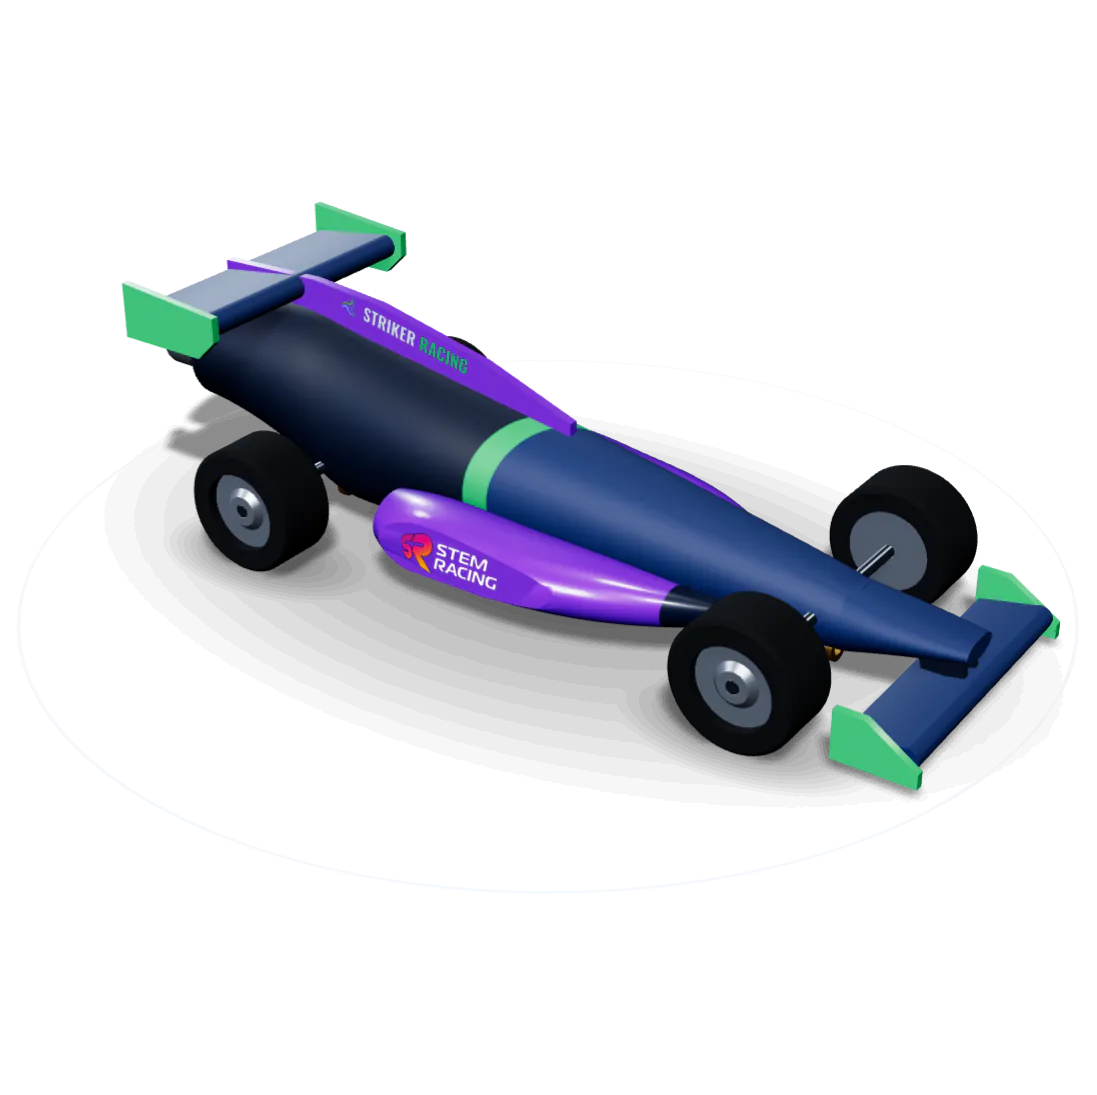
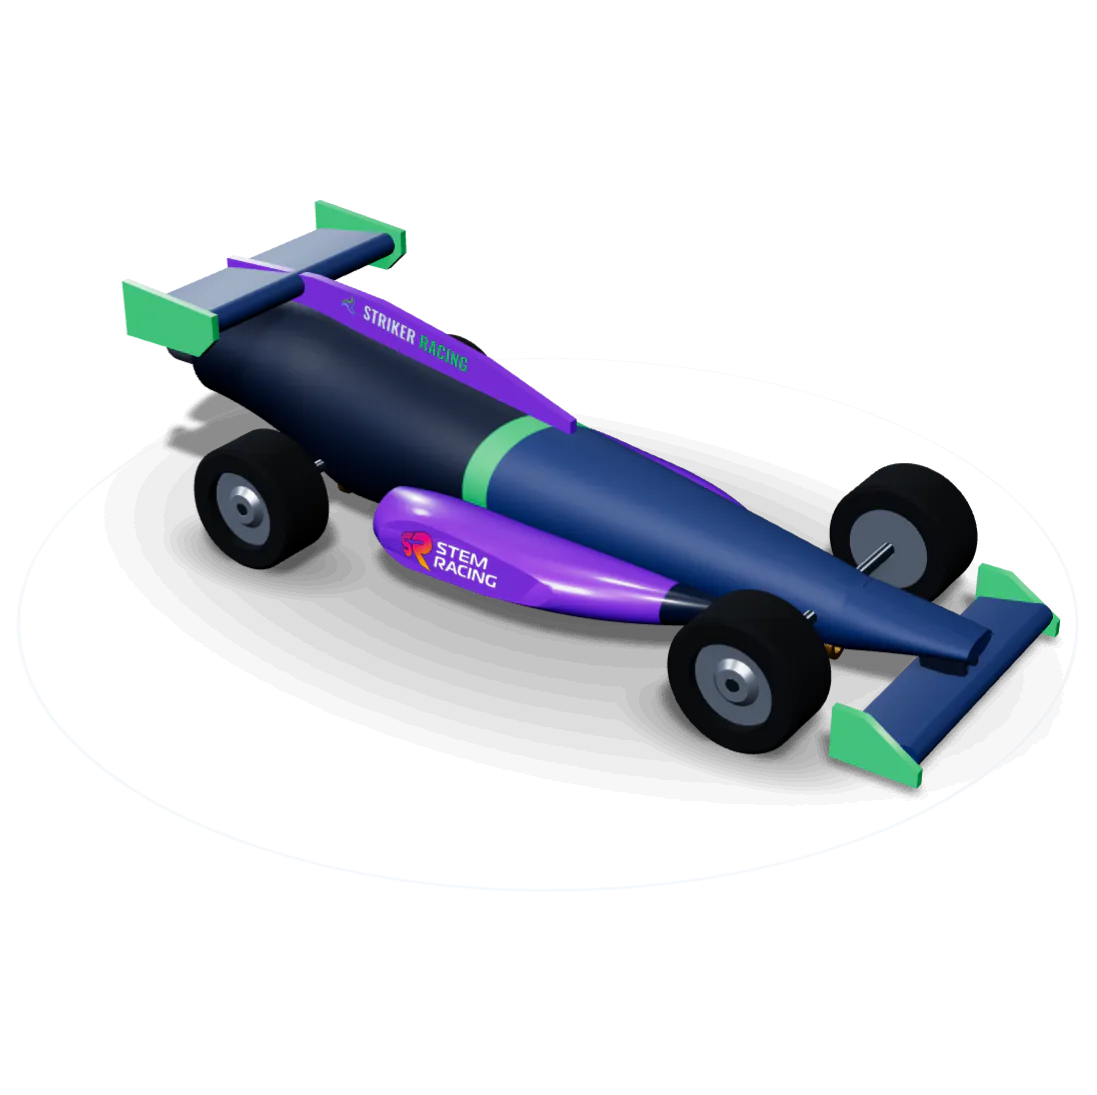
fix(cache,hero): ?v=<hash> de contenido en css/js/img/modelos en build:deploy, css/js con must-revalidate, prueba qa/cache; menu transparente sobre el hero, foto hasta el borde superior, difuminado largo y visor sin bordes; poster sin menu horneado

diff --git a/css/gallery.css b/css/gallery.css
@@ -853,16 +853,18 @@ dialog.ar-dialog::backdrop{background:rgba(7,27,51,0.85);}
 /* ---------- Inicio: hero con foto a todo el ancho y visor del SR-26 grande ----------
    La foto va a todo el ancho con su proporción (16:9), anclada abajo; el texto va en el muro vacío sobre las cabezas (el borde superior e inferior
    de la foto se difuminan hacia el navy con mask-image, solo transparencia). Cajas de caras en data/hero-safe.json: --face-top = 38 % del alto de la foto. */
-.hero-photo{--ph:56.25vw; --face-top:0.378; position:relative; display:block; min-height:0; padding:0; overflow:hidden; background:var(--navy-deep); border-bottom:0;}
+.hero-photo{--hdr:65px; --fs:clamp(1.7rem,4.4vw,3.5rem); --face-top:0.378;
+  --ph:max(56.25vw, calc((var(--hdr) + 40px + 171px + 2 * var(--fs) + 28px) / var(--face-top)));   /* alto de la foto: lo justo para que el texto quede sobre las cabezas y la foto llegue hasta el borde superior */
+  position:relative; display:block; min-height:0; padding:0; overflow:hidden; background:var(--navy-deep); border-bottom:0;}
 .hero-photo::before{display:none;}
 .hero-bg{position:absolute; left:0; right:0; bottom:0; height:var(--ph); z-index:0;}
 .hero-bg picture, .hero-bg img{display:block; width:100%; height:100%;}
-.hero-bg img{object-fit:cover; object-position:50% 50%;
-  -webkit-mask-image:linear-gradient(to bottom, transparent 0, #000 24%, #000 80%, transparent 100%); mask-image:linear-gradient(to bottom, transparent 0, #000 24%, #000 80%, transparent 100%);}
+.hero-bg img{object-fit:cover; object-position:40% 50%;   /* cover por alto en pantallas angostas: recorta a los lados sin cortar las caras (qa:hero) */
+  -webkit-mask-image:linear-gradient(to bottom, #000 0, #000 62%, transparent 100%); mask-image:linear-gradient(to bottom, #000 0, #000 62%, transparent 100%);}   /* difuminado largo (38 %) hacia el navy, solo transparencia */
 .hero-bg::after{content:""; position:absolute; inset:0; background:rgba(7,27,51,0.45); pointer-events:none;}   /* oscurece la foto con navy plano (sin filter: es lento en WebGL por software) */
-.hero-copy{position:relative; z-index:2; width:100%; padding-top:40px; padding-bottom:calc(var(--ph) * (1 - var(--face-top)) + 16px);}
+.hero-copy{position:relative; z-index:2; width:100%; padding-top:calc(var(--hdr) + 40px); padding-bottom:calc(var(--ph) * (1 - var(--face-top)) + 16px);}
 .hero-copy > *{max-width:980px;}
-.hero-copy h1{font-family:'Oswald', system-ui, sans-serif; font-weight:600; text-transform:uppercase; font-size:clamp(1.7rem,4.4vw,3.5rem); line-height:1.02; color:var(--ice); margin:0 0 14px;}
+.hero-copy h1{font-family:'Oswald', system-ui, sans-serif; font-weight:600; text-transform:uppercase; font-size:var(--fs); line-height:1.02; color:var(--ice); margin:0 0 14px;}
 .hero-copy h1 em{font-style:normal; color:var(--purple-text);}
 .hero-copy .hero-lead{color:var(--ice); max-width:64ch; margin-bottom:20px;}
 .hero-copy .room-tag{margin-bottom:14px; color:var(--ice);}
@@ -871,16 +873,30 @@ dialog.ar-dialog::backdrop{background:rgba(7,27,51,0.85);}
   font-family:var(--mono); font-size:0.72rem; letter-spacing:0.12em; text-transform:uppercase; color:var(--ice);
 }
 .hero-scroll::after{content:""; width:9px; height:9px; border-right:2px solid var(--emerald); border-bottom:2px solid var(--emerald); transform:rotate(45deg) translateY(-2px);}
-@media (max-width:640px){   /* teléfono: la foto arriba (recorte con las 6 caras a la vista) y el texto debajo, sin encimarse */
+/* Escritorio (>900 px): el menú es transparente sobre la foto (velo navy plano al 55 %) y pasa a navy sólido al hacer scroll (>40 px, clase is-solid) o con el menú abierto */
+@media (min-width:901px){
+  body:has(.hero-photo) .cockpit{position:fixed; left:0; right:0; top:0; border-bottom-color:transparent; transition:border-color .2s ease;}
+  body:has(.hero-photo) .cockpit::before{background:rgba(7,27,51,0.55); transition:background-color .2s ease;}
+  body:has(.hero-photo) .cockpit.is-solid, body:has(.hero-photo) .cockpit:has(.nav-panel.open){border-bottom-color:var(--border-fine);}
+  body:has(.hero-photo) .cockpit.is-solid::before, body:has(.hero-photo) .cockpit:has(.nav-panel.open)::before{background:var(--navy-deep);}
+  body:has(.hero-photo) .cockpit:not(.is-solid) .contact-cta.is-ghost{border-color:var(--ice-dim);}
+}
+@media (prefers-reduced-motion:reduce){ body:has(.hero-photo) .cockpit, body:has(.hero-photo) .cockpit::before{transition:none;} }
+@media (max-width:900px){   /* tableta y teléfono: la foto arriba (recorte con las 6 caras a la vista) y el texto debajo, sin encimarse; menú sólido */
+  .hero-photo{--fs:clamp(1.4rem,5.2vw,2.2rem);}
   .hero-bg{top:0; bottom:auto; height:420px;}
   .hero-bg::after{display:none;}
-  .hero-bg img{object-position:40% 50%; -webkit-mask-image:linear-gradient(to bottom, #000 0, #000 78%, transparent 100%); mask-image:linear-gradient(to bottom, #000 0, #000 78%, transparent 100%);}
+  .hero-bg img{object-position:40% 50%;}
   .hero-copy{padding-top:400px; padding-bottom:72px;}
-  .hero-copy h1{font-size:1.4rem;}
   .hero-scroll{left:16px; right:auto; bottom:12px;}
 }
+@media (max-width:640px){ .hero-photo{--fs:1.4rem;} }
 .viewer-band{padding:0; background:var(--navy-deep);}
-.viewer-full .model-stage{margin:0; width:100%; aspect-ratio:auto; min-height:80vh; min-height:80svh; border:none; border-bottom:1px solid var(--border-fine); background-color:var(--surface); background-size:32px 32px;}
+.viewer-full .model-stage{margin:0; width:100%; aspect-ratio:auto; min-height:80vh; min-height:80svh; border:none; background:transparent;}
+/* la cuadrícula del plano vive en ::before y entra y sale con mask-image: el visor continúa el mismo navy del hero y de la sección siguiente, sin bordes ni cambio de fondo */
+.viewer-full .model-stage::before{content:""; position:absolute; inset:0; z-index:0; pointer-events:none;
+  background-image:linear-gradient(var(--grid-line) 1px, transparent 1px), linear-gradient(90deg, var(--grid-line) 1px, transparent 1px); background-size:40px 40px;
+  -webkit-mask-image:linear-gradient(to bottom, transparent 0, #000 22%, #000 78%, transparent 100%); mask-image:linear-gradient(to bottom, transparent 0, #000 22%, #000 78%, transparent 100%);}
 .viewer-full .model-poster{object-fit:contain;}
 .viewer-full .model-stage .model-hint{top:10px; bottom:auto;}
 @media (max-width:640px){ .viewer-full .model-stage{min-height:0; aspect-ratio:4/5;} }

diff --git a/auto/index.html b/auto/index.html
@@ -142,9 +142,9 @@
     <div class="hero-main">
       <div class="model-stage" id="modelStage" data-viewer="/js/dist/viewer.6JBCKFAM.js" data-model="/assets/models/sr26.glb?v=e992e3fa" data-video-mp4="" data-video-webm="" data-env="/assets/models/env-room.png?v=586e7346" data-logo="/logo.png" aria-label="Modelo 3D del SR-26, monoplaza de Striker Racing, con animación de despiece">
         <picture>
-          <source media="(min-width:961px)" srcset="/assets/img/car-poster-desktop.webp?v=5417a997" width="1097" height="1094">
-          <source media="(min-width:561px)" srcset="/assets/img/car-poster-tablet.webp?v=47b8488d" width="910" height="681">
-          <img class="model-poster" src="/assets/img/car-poster-phone.webp?v=54a9057e" width="510" height="636" alt="Monoplaza SR-26 de Striker Racing con su librea azul marino, morada y verde esmeralda" loading="eager" fetchpriority="high" decoding="async">
+          <source media="(min-width:961px)" srcset="/assets/img/car-poster-desktop.webp?v=d631c693" width="1097" height="1094">
+          <source media="(min-width:561px)" srcset="/assets/img/car-poster-tablet.webp?v=5ce82be8" width="910" height="681">
+          <img class="model-poster" src="/assets/img/car-poster-phone.webp?v=ea46ad75" width="510" height="636" alt="Monoplaza SR-26 de Striker Racing con su librea azul marino, morada y verde esmeralda" loading="eager" fetchpriority="high" decoding="async">
         </picture>
         <span class="model-tag">SR-26 · Prototipo Striker Racing</span>
         <span class="model-hint">Arrastra para girar</span>

diff --git a/en/car/index.html b/en/car/index.html
@@ -142,9 +142,9 @@
     <div class="hero-main">
       <div class="model-stage" id="modelStage" data-viewer="/js/dist/viewer.6JBCKFAM.js" data-model="/assets/models/sr26.glb?v=e992e3fa" data-video-mp4="" data-video-webm="" data-env="/assets/models/env-room.png?v=586e7346" data-logo="/logo.png" aria-label="3D model of the SR-26, the Striker Racing car, with an exploded-view animation">
         <picture>
-          <source media="(min-width:961px)" srcset="/assets/img/car-poster-desktop.webp?v=5417a997" width="1097" height="1094">
-          <source media="(min-width:561px)" srcset="/assets/img/car-poster-tablet.webp?v=47b8488d" width="910" height="681">
-          <img class="model-poster" src="/assets/img/car-poster-phone.webp?v=54a9057e" width="510" height="636" alt="Striker Racing SR-26 car in its navy blue, purple and emerald green livery" loading="eager" fetchpriority="high" decoding="async">
+          <source media="(min-width:961px)" srcset="/assets/img/car-poster-desktop.webp?v=d631c693" width="1097" height="1094">
+          <source media="(min-width:561px)" srcset="/assets/img/car-poster-tablet.webp?v=5ce82be8" width="910" height="681">
+          <img class="model-poster" src="/assets/img/car-poster-phone.webp?v=ea46ad75" width="510" height="636" alt="Striker Racing SR-26 car in its navy blue, purple and emerald green livery" loading="eager" fetchpriority="high" decoding="async">
         </picture>
         <span class="model-tag">SR-26 · Striker Racing prototype</span>
         <span class="model-hint">Drag to rotate</span>

diff --git a/index.html b/index.html
@@ -178,8 +178,8 @@
   <div class="viewer-full">
     <div class="model-stage" id="modelStage" data-defer="idle" data-viewer="/js/dist/viewer.6JBCKFAM.js" data-model="/assets/models/sr26.glb?v=e992e3fa" data-video-mp4="" data-video-webm="" data-env="/assets/models/env-room.png?v=586e7346" data-logo="/logo.png" aria-label="Modelo 3D del SR-26, monoplaza de Striker Racing, con animación de despiece">
         <picture>
-          <source media="(min-width:561px)" srcset="/assets/img/car-poster-tablet.webp?v=47b8488d" width="910" height="681">
-          <img class="model-poster" src="/assets/img/car-poster-phone.webp?v=54a9057e" width="510" height="636" alt="Monoplaza SR-26 de Striker Racing con su librea azul marino, morada y verde esmeralda" loading="lazy" decoding="async">
+          <source media="(min-width:561px)" srcset="/assets/img/car-poster-tablet.webp?v=5ce82be8" width="910" height="681">
+          <img class="model-poster" src="/assets/img/car-poster-phone.webp?v=ea46ad75" width="510" height="636" alt="Monoplaza SR-26 de Striker Racing con su librea azul marino, morada y verde esmeralda" loading="lazy" decoding="async">
         </picture>
         <span class="model-tag">SR-26 · Prototipo Striker Racing</span>
         <span class="model-hint">Arrastra para girar</span>

diff --git a/en/index.html b/en/index.html
@@ -178,8 +178,8 @@
   <div class="viewer-full">
     <div class="model-stage" id="modelStage" data-defer="idle" data-viewer="/js/dist/viewer.6JBCKFAM.js" data-model="/assets/models/sr26.glb?v=e992e3fa" data-video-mp4="" data-video-webm="" data-env="/assets/models/env-room.png?v=586e7346" data-logo="/logo.png" aria-label="3D model of the SR-26, the Striker Racing car, with an exploded-view animation">
         <picture>
-          <source media="(min-width:561px)" srcset="/assets/img/car-poster-tablet.webp?v=47b8488d" width="910" height="681">
-          <img class="model-poster" src="/assets/img/car-poster-phone.webp?v=54a9057e" width="510" height="636" alt="Striker Racing SR-26 car in its navy blue, purple and emerald green livery" loading="lazy" decoding="async">
+          <source media="(min-width:561px)" srcset="/assets/img/car-poster-tablet.webp?v=5ce82be8" width="910" height="681">
+          <img class="model-poster" src="/assets/img/car-poster-phone.webp?v=ea46ad75" width="510" height="636" alt="Striker Racing SR-26 car in its navy blue, purple and emerald green livery" loading="lazy" decoding="async">
         </picture>
         <span class="model-tag">SR-26 · Striker Racing prototype</span>
         <span class="model-hint">Drag to rotate</span>

diff --git a/js/site.js b/js/site.js
@@ -60,6 +60,14 @@
     });
   });
 
+  // ---------- MENÚ SOBRE EL HERO: transparente arriba, navy sólido al pasar de 40 px (la clase is-solid solo importa en escritorio con hero de foto) ----------
+  var cockpit = document.querySelector('.cockpit'), navTicking = false;
+  function updateNav(){ navTicking = false; cockpit.classList.toggle('is-solid', window.scrollY > 40); }
+  if(cockpit && document.querySelector('.hero-photo')){
+    window.addEventListener('scroll', function(){ if(!navTicking){ navTicking = true; requestAnimationFrame(updateNav); } }, { passive: true });
+    requestAnimationFrame(updateNav);
+  }
+
   // ---------- VOLVER ARRIBA + BOTÓN FIJO «PATROCINAR» (móvil) ----------
   // Una sola lectura de scrollY por cuadro (rAF) y ninguna lectura al cargar: así no se fuerza un layout antes del primer pintado.
   // El botón fijo no aparece mientras el visor 3D está en pantalla (taparía sus controles) ni en pantalla completa.

diff --git a/INFORME.md b/INFORME.md
@@ -49,3 +49,12 @@ Rendimiento: inicio 90/91, /auto/ 98/98, presupuesto 99/99, patrocinios 99/99. A
 - **Foto lista para el original.** `npm run build:images` genera 640/960/1280/1920/2560 en AVIF y WebP (y JPG en 1280/1920/2560) desde `assets/img/original/team.jpg` si existe, o desde `team/grupo.webp` si no (sin ampliar nunca), reescribe el `<picture>` del hero (`srcset` + `sizes="100vw"`) y la única precarga de imagen de la página en `index.html` y `en/index.html`. Avisa si la proporción cambia (hay que volver a medir `hero-safe.json`). Probado con un original de 2560 px y restaurado.
 - **Deploy.** `vercel.json` ahora fija `installCommand` (`npm ci --omit=dev`: solo esbuild y three) y `buildCommand` (`npm run build:deploy` = solo esbuild del visor). Antes Vercel instalaba todas las devDependencies (Playwright, Lighthouse, gltf-transform, sharp…) y corría `npm run build` completo. El build completo pasó a `npm run build:all` (manual). `.npmrc` con `legacy-peer-deps` (el peer de three de model-viewer chocaba en `npm ci`). `.vercelignore` ya no excluye `scripts/`, `data/` ni `package-lock.json` (el build los necesita).
 - **Pruebas.** `qa/lib.mjs` lanza Chrome con `--disable-gpu-compositing`: con la máscara del hero y compositor por software (SwiftShader) las navegaciones de `qa/content.test.mjs` se colgaban; en un navegador con GPU no aplica.
+
+## Caché con hash y costuras del hero (3-oct, cuarta tanda)
+- **Caché.** Antes css/js se servían 1 h (+ 24 h de revalidación en segundo plano) sin hash: tras un deploy, quien ya había entrado veía HTML nuevo con CSS viejo. Ahora  ( + ) agrega  a todas las referencias locales de los HTML ES/EN (css, js, imágenes, modelos, fuentes, favicons, manifest; también  y ) y a las  de los CSS (fuentes). Los  ya llevan hash en el nombre y siguen . El hash sale del archivo, no de la fecha; el código fuente no se toca (solo ).
+- **vercel.json.**  y  (sin ) →  (se revalidan con ETag: si no cambió, 304). Los demás headers quedan igual (lo que lleva  puede conservar su caché larga con seguridad).
+- **Prueba.**  (primer paso de ) arma  y falla si un recurso local citado por un HTML no tiene hash en el nombre ni , si el  no coincide con el contenido, si css/js sin hash no son , o si una ruta sin hash con caché larga se cita sin . Probé romper  y falla.
+- **Hero.** En escritorio (>900 px) el menú es transparente sobre la foto (velo navy plano 55 %) y pasa a navy sólido con scroll >40 px (, js/site.js) o con el menú abierto. La foto llega al borde superior: la altura de la foto se calcula en CSS () para que el texto quede sobre las cabezas, y cubre en horizontal con  (en pantallas angostas recorta a los lados, sin cortar caras). Abajo, el difuminado a #071B33 mide ~38 % del alto (), sin línea. En ≤900 px la foto va arriba y el texto debajo (antes el corte era 640 px) y el menú sigue sólido.
+- **Visor.**  ya no tiene fondo  ni bordes: es el mismo navy y la cuadrícula del plano ( con ) entra y sale suave. Efecto lateral: lo mismo aplica al visor de /auto/.
+- **Póster del visor.** Los  tenían el menú fijo («STRIKER RACING / Patrocinar») horneado en la esquina;  ahora oculta el menú y se regeneraron.
+- **Capturas.**  →  (1920, 1440, 1024, 390). Queda una línea normal de sección entre los datos del equipo y «Cinco integrantes» (borde de la siguiente sección, mismo navy); no se tocó.

diff --git a/CAMBIOS_PARA_EL_EQUIPO.md b/CAMBIOS_PARA_EL_EQUIPO.md
@@ -78,3 +78,8 @@ El equipo compite en **Desarrollo (Development), Bachillerato**. Se revisaron ES
 - **Foto original del equipo:** soltarla como `assets/img/original/team.jpg` (idealmente 2560×1440 o más, 16:9) y correr `npm run build:images`. Si la proporción o el encuadre cambian, hay que volver a medir las caras en `data/hero-safe.json` (la prueba `qa/hero-safe.test.mjs` dirá si algo toca una cara). En la foto actual se ven 6 personas en el encuadre del hero, no 5: confirmar quién es quién.
 - **Vercel:** el proyecto ahora instala solo `esbuild` y `three` y corre solo el empaquetado del visor. Lo generado (imágenes, OG, dossier, modelo, capturas) va commiteado; para regenerarlo en local: `npm run build:all`, `npm run build:images`, etc. Si en el panel de Vercel hay un *Build Command* o *Install Command* propio, el de `vercel.json` lo sustituye.
 - **Copy en inglés:** el botón móvil del menú pasó de «Sponsor» a «Sponsor us» para igualar escritorio y el español («Patrocínanos»).
+
+## E. Cuarta tanda (3-oct): caché y costuras
+- **Deploy:** las URLs de css/js/imágenes en el HTML publicado llevan ; no hay que hacer nada a mano. Si agregan un recurso nuevo, basta con citarlo con ruta absoluta () y  lo sella.  avisa si algo queda sin sello.
+- **Revertir:** el sellado vive solo en ; el cambio de cabeceras en  (css/js → ).
+- **Diseño a confirmar:** menú transparente sobre el hero en escritorio; en tabletas (≤900 px) el hero apila foto y texto; el visor del inicio y de /auto/ ya no tiene tarjeta/borde. Todo es CSS en  (bloque «Inicio: hero…»).
